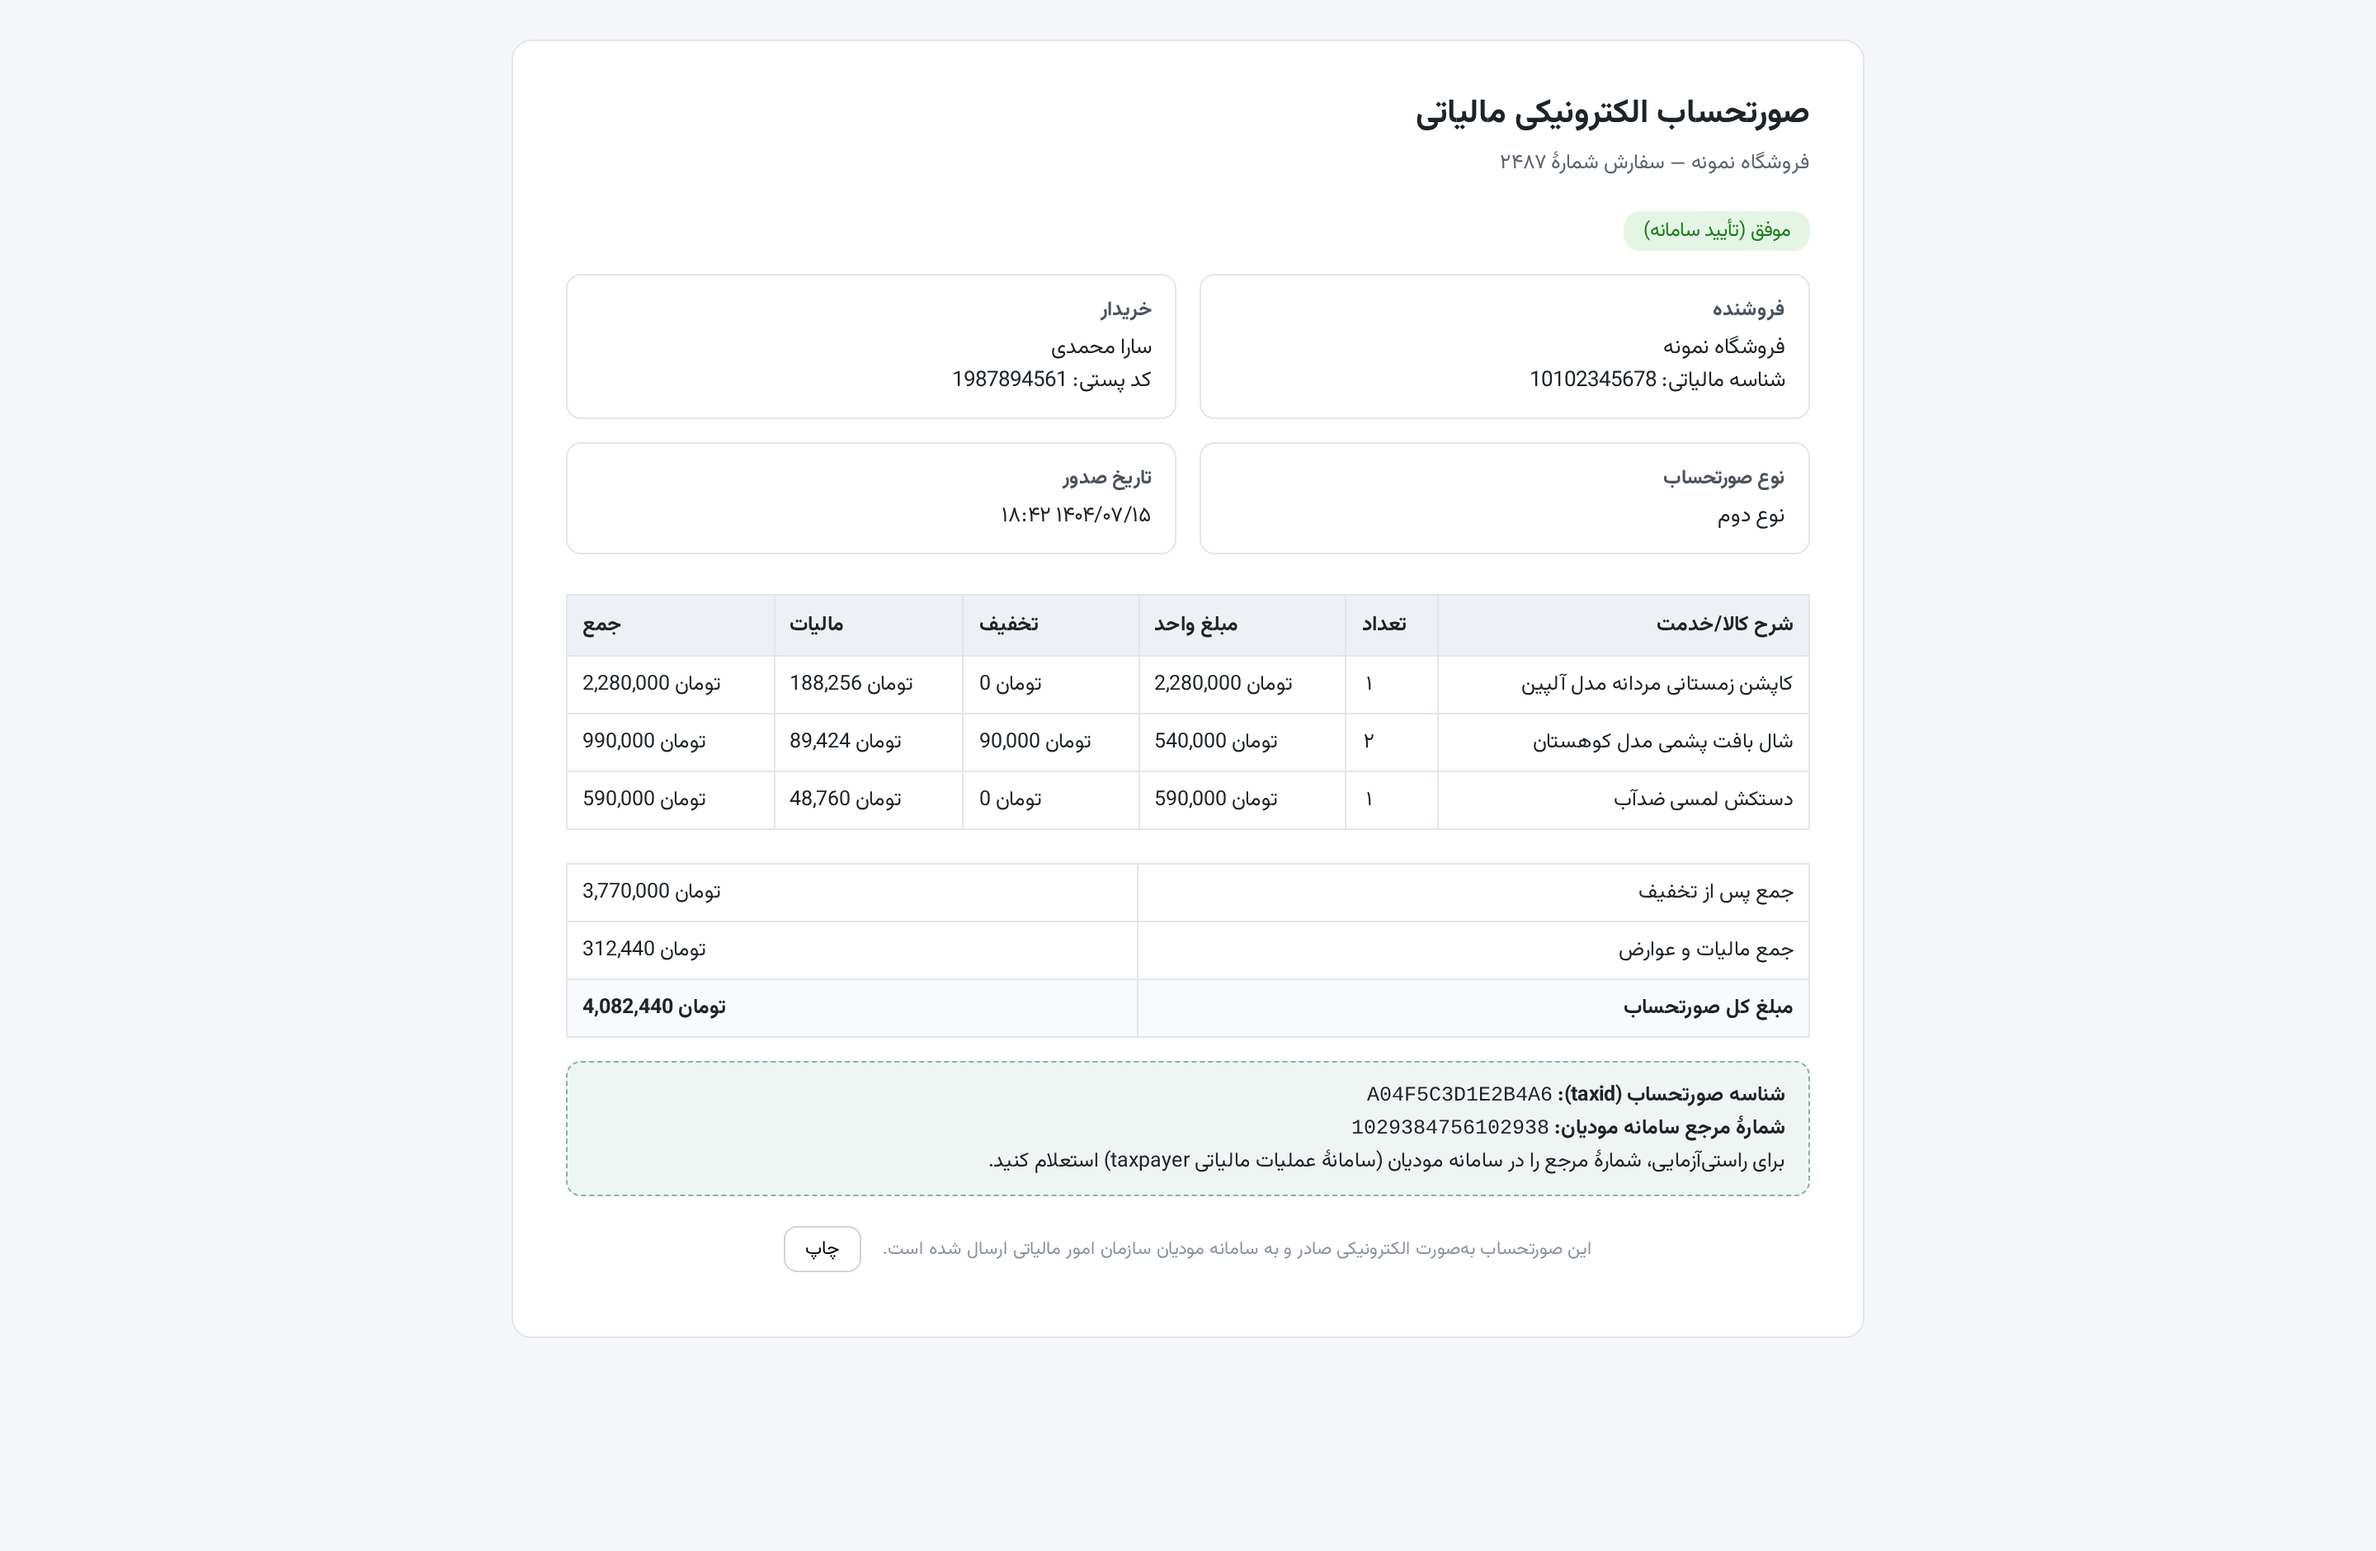
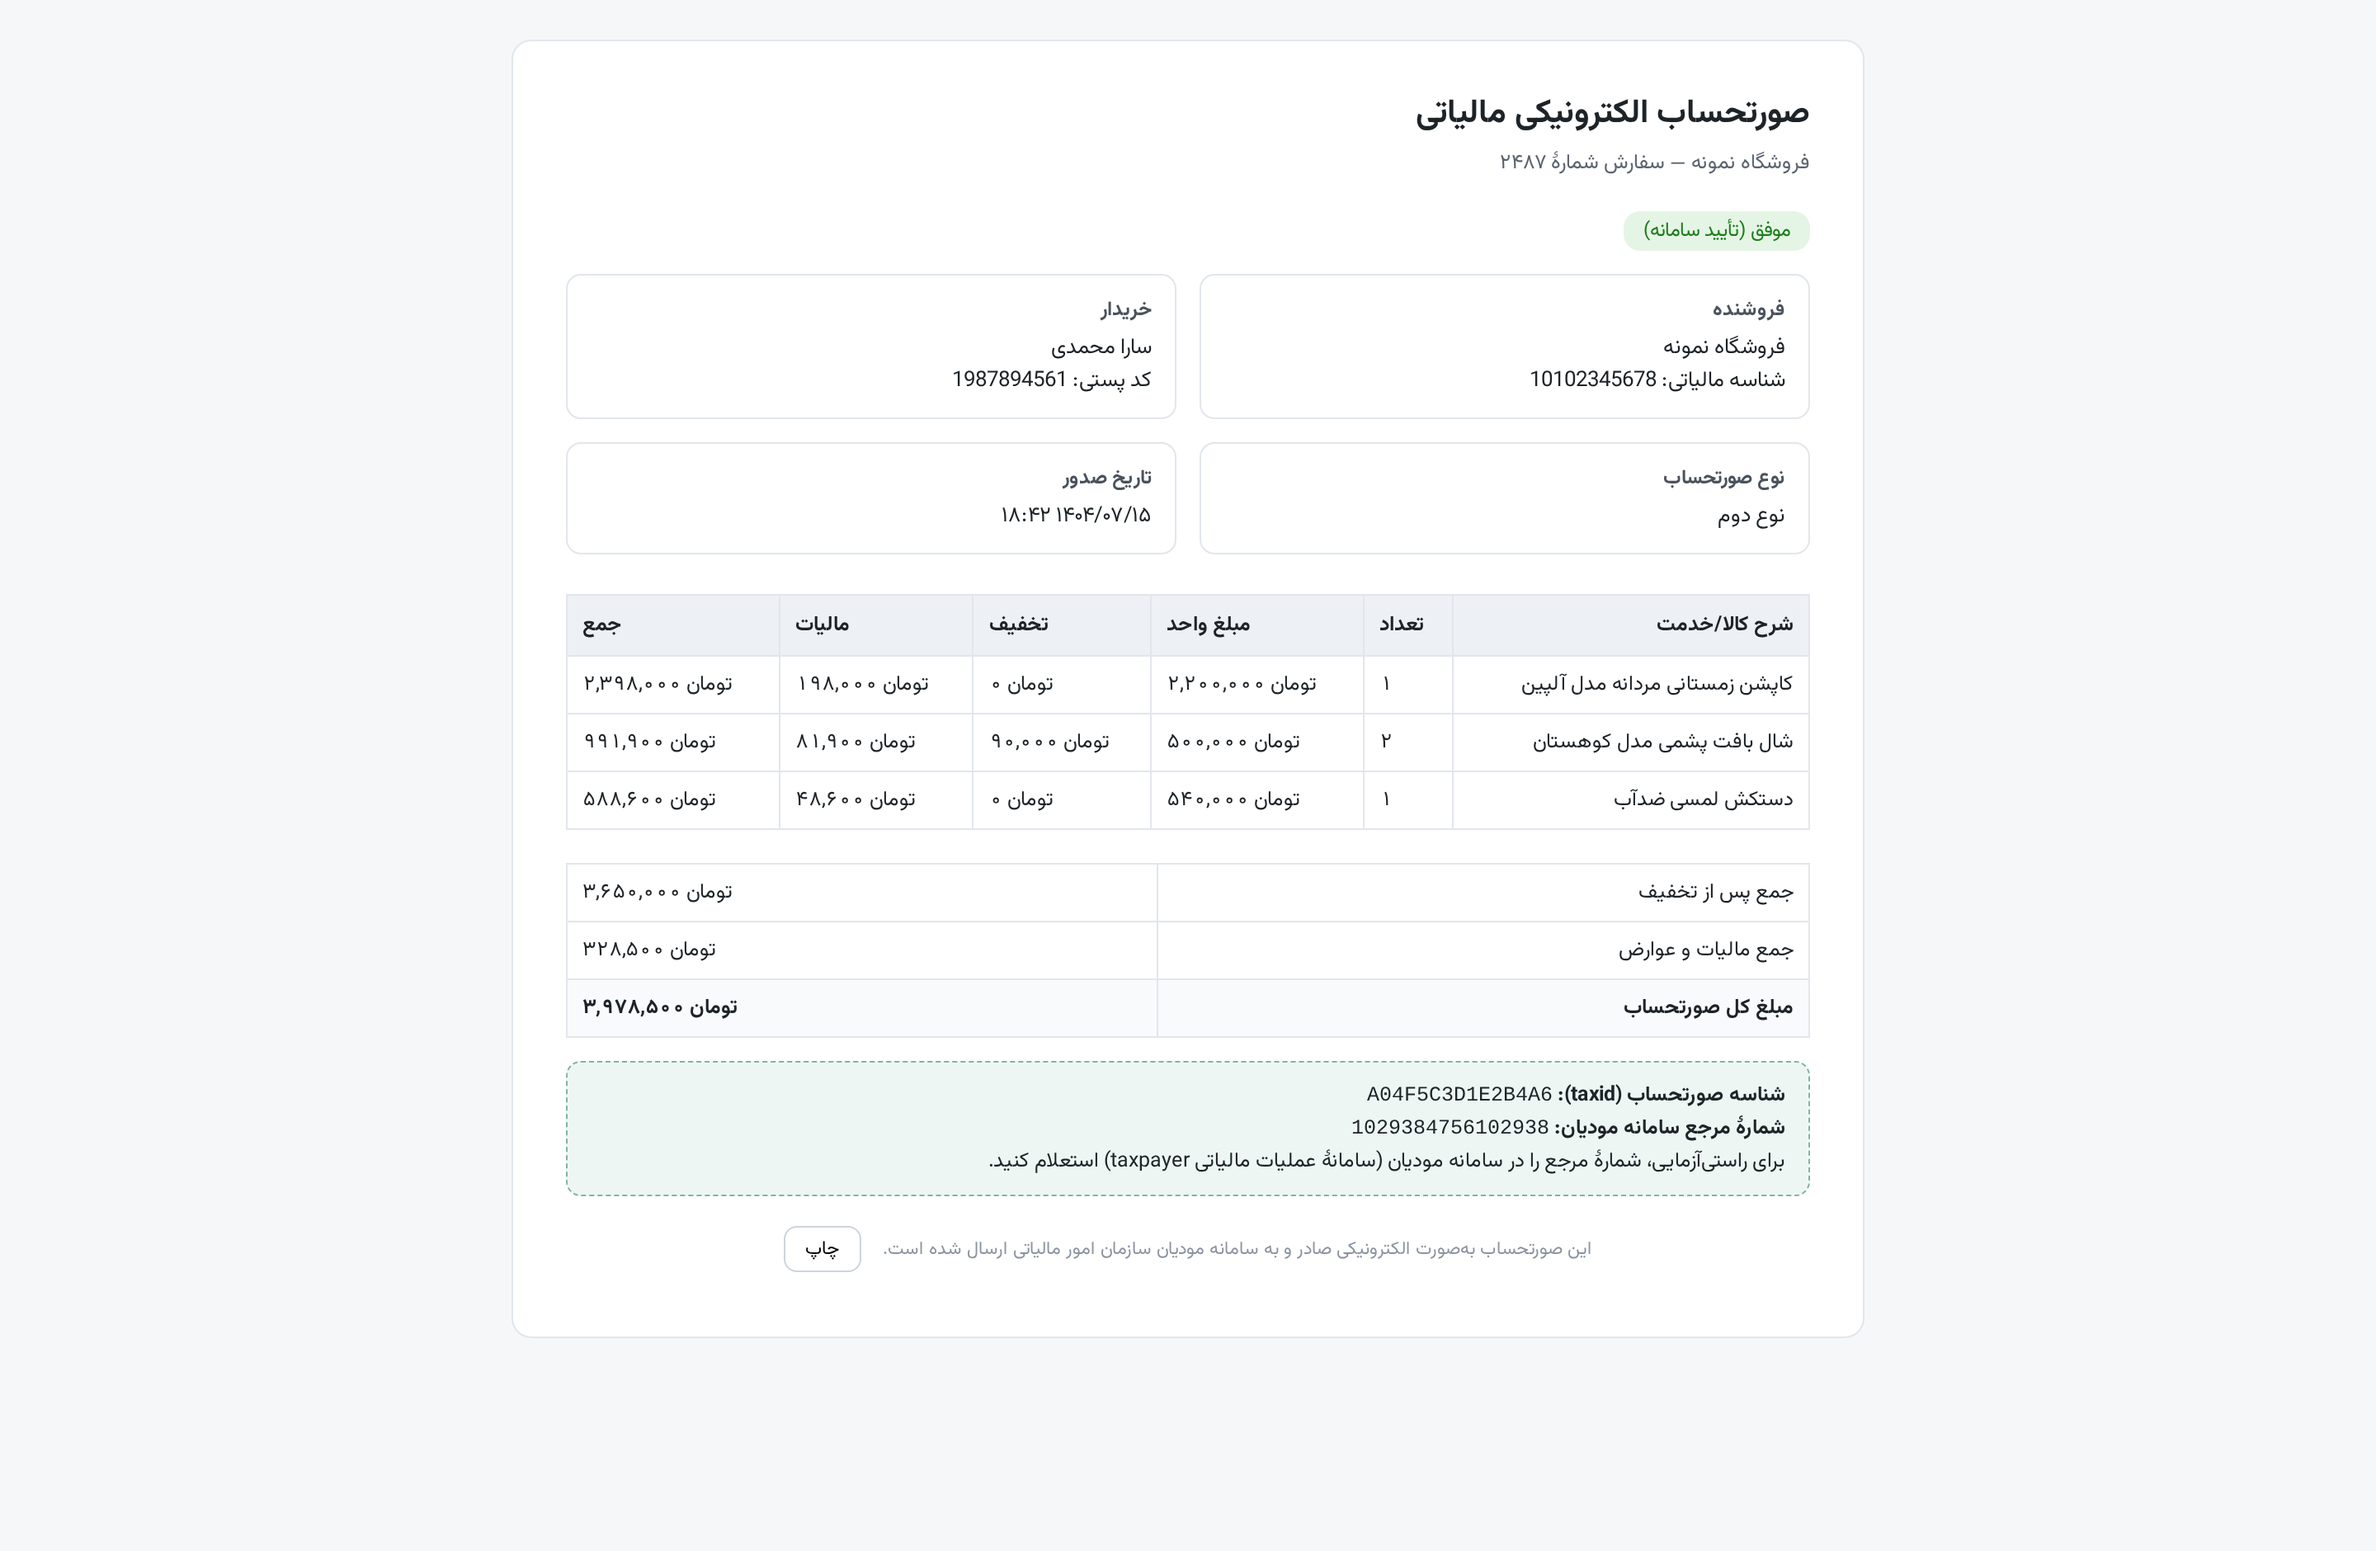
session 17: fact-fixes (password->memory_id credential card, drop QR claim), invoice shot reconciled Persian-digit numbers, selftest shot 30/30

diff --git a/index.html b/index.html
@@ -171,12 +171,12 @@ footer .cta { justify-content:center; }
 <section id="creds" style="background:rgba(10,31,25,.5)">
   <div class="wrap">
     <h2 class="sec-title">چه چیزی را <b>کجا وارد کنم؟</b></h2>
-    <p class="sec-sub">فقط ۴ مورد، همهٔ آنها از کارپوشهٔ سازمان امور مالیاتی (my.tax.gov.ir) به دست میآید و همه در صفحهٔ «تنظیمات» افزونه، در بخش «اعتبارنامهها» وارد میشود:</p>
+    <p class="sec-sub">فقط ۴ مورد، همه از کارپوشهٔ سازمان امور مالیاتی (my.tax.gov.ir) و سامانهٔ مودیان به دست میآید و همه در صفحهٔ «تنظیمات» افزونه، در بخش «اعتبارنامهها» وارد میشود:</p>
     <div class="creds">
-      <div class="cred"><div class="ico">🏛</div><h3>۱. شناسه ملی / شناسه مالیاتی</h3><p>شناسهٔ ۱۱ رقمی کسبوکار شما که سامانهٔ مودیان صورتحسابها را به آن وابسته میکند.</p><span class="from">منبع: کارپوشه → اطلاعات مودی</span></div>
-      <div class="cred"><div class="ico">👤</div><h3>۲. نام کاربری مودیان</h3><p>نام کاربری سامانهٔ مودیان که هنگام فعالسازی مودیان از طریق پیامک برای مودی ارسال میشود.</p><span class="from">منبع: پیامک فعالسازی / پشتیبانی مالیاتی</span></div>
-      <div class="cred"><div class="ico">🔑</div><h3>۳. رمز عبور مودیان</h3><p>رمز عبوری که همراه نام کاربری صادر شده و برای دریافت توکن دسترسی استفاده میشود.</p><span class="from">منبع: پیامک فعالسازی / پشتیبانی مالیاتی</span></div>
-      <div class="cred"><div class="ico">✍</div><h3>۴. کلید خصوصی (امضای دیجیتال)</h3><p>کلید رمزنگاری که برای امضای هر بستهٔ صورتحساب لازم است؛ یک متن طولانی رمزنگاریشده است.</p><span class="from">منبع: کارپوشه → سامانهٔ مودیان → امضای دیجیتال</span></div>
+      <div class="cred"><div class="ico">🏛</div><h3>۱. شناسه ملی / کد اقتصادی</h3><p>شناسهٔ ۱۱ رقمی کسبوکار شما که صورتحسابها با آن صادر میشود (tins).</p><span class="from">منبع: کارپوشه → اطلاعات مودی</span></div>
+      <div class="cred"><div class="ico">👤</div><h3>۲. شناسهٔ مشتری (username)</h3><p>نام کاربری حروفی که برای پروتکل TSP ساخته میشود؛ در مودیانیار «username» نام دارد.</p><span class="from">منبع: مدیریت کاربران سامانهٔ مودیان</span></div>
+      <div class="cred"><div class="ico">💾</div><h3>۳. شناسهٔ حافظهٔ مالیاتی</h3><p>کد حافظهٔ فروشگاهی که پس از ثبت حافظه صادر میشود — برای آداپتور v2.</p><span class="from">منبع: کارپوشه → سامانهٔ مودیان → ثبت حافظه</span></div>
+      <div class="cred"><div class="ico">✍</div><h3>۴. کلید خصوصی (امضای دیجیتال)</h3><p>کلید رمزنگاری که برای امضای هر بستهٔ صورتحساب لازم است؛ یک متن طولانی PEM است و رمزنگاریشده ذخیره میشود.</p><span class="from">منبع: امضای دیجیتال (برای v2 گواهی از مرکز ثبت الکترونیکی)</span></div>
     </div>
     <div class="notebox"><b>نکتهٔ مهم:</b> «محیط آزمایشی» (سندباکس) افزونه بهصورت پیشفرض روشن است؛ یعنی میتوانید پیش از بهرهبرداری واقعی، کل چرخهٔ ارسال/استعلام/ابطال را به نشانی آزمایشی سامانه بفرستید و همهچیز را بدون ریسک ببینید. راهنمای گامبهگام دریافت هر ۴ مورد، در فایل راهنمای ۱۶ صفحهای همراه افزونه آمده است.</div>
   </div>
@@ -228,7 +228,7 @@ footer .cta { justify-content:center; }
     <div class="grid">
       <div class="shot"><img src="shots/queue.png" alt="صف ارسال"><div class="cap">صف ارسال — وضعیت، تلاشها و خطای فارسی هر صورتحساب</div></div>
       <div class="shot"><img src="shots/reports.png" alt="گزارشها"><div class="cap">گزارش ماهانهٔ شمسی — تفکیک نرخ، معاف/مشمول و خروجی CSV</div></div>
-      <div class="shot"><img src="shots/invoice.png" alt="صورتحساب خریدار"><div class="cap">صفحهٔ صورتحساب چاپی خریدار با شمارهٔ مرجع و QR</div></div>
+      <div class="shot"><img src="shots/invoice.png" alt="صورتحساب خریدار"><div class="cap">صفحهٔ صورتحساب چاپی خریدار با شمارهٔ مرجع سامانه</div></div>
       <div class="shot"><img src="shots/log.png" alt="گزارش فعالیت"><div class="cap">گزارش فعالیت کامل با جستوجو و فیلتر سطح</div></div>
       <div class="shot"><img src="shots/selftest.png" alt="خودآزمون"><div class="cap">خودآزمون ۳۰ آزمونی — الگوریتمها، تاریخ و رمزنگاری</div></div>
       <div class="shot"><img src="shots/dashboard.png" alt="پیشخوان"><div class="cap">پیشخوان — آمار ارسال و وضعیت کلی</div></div>
